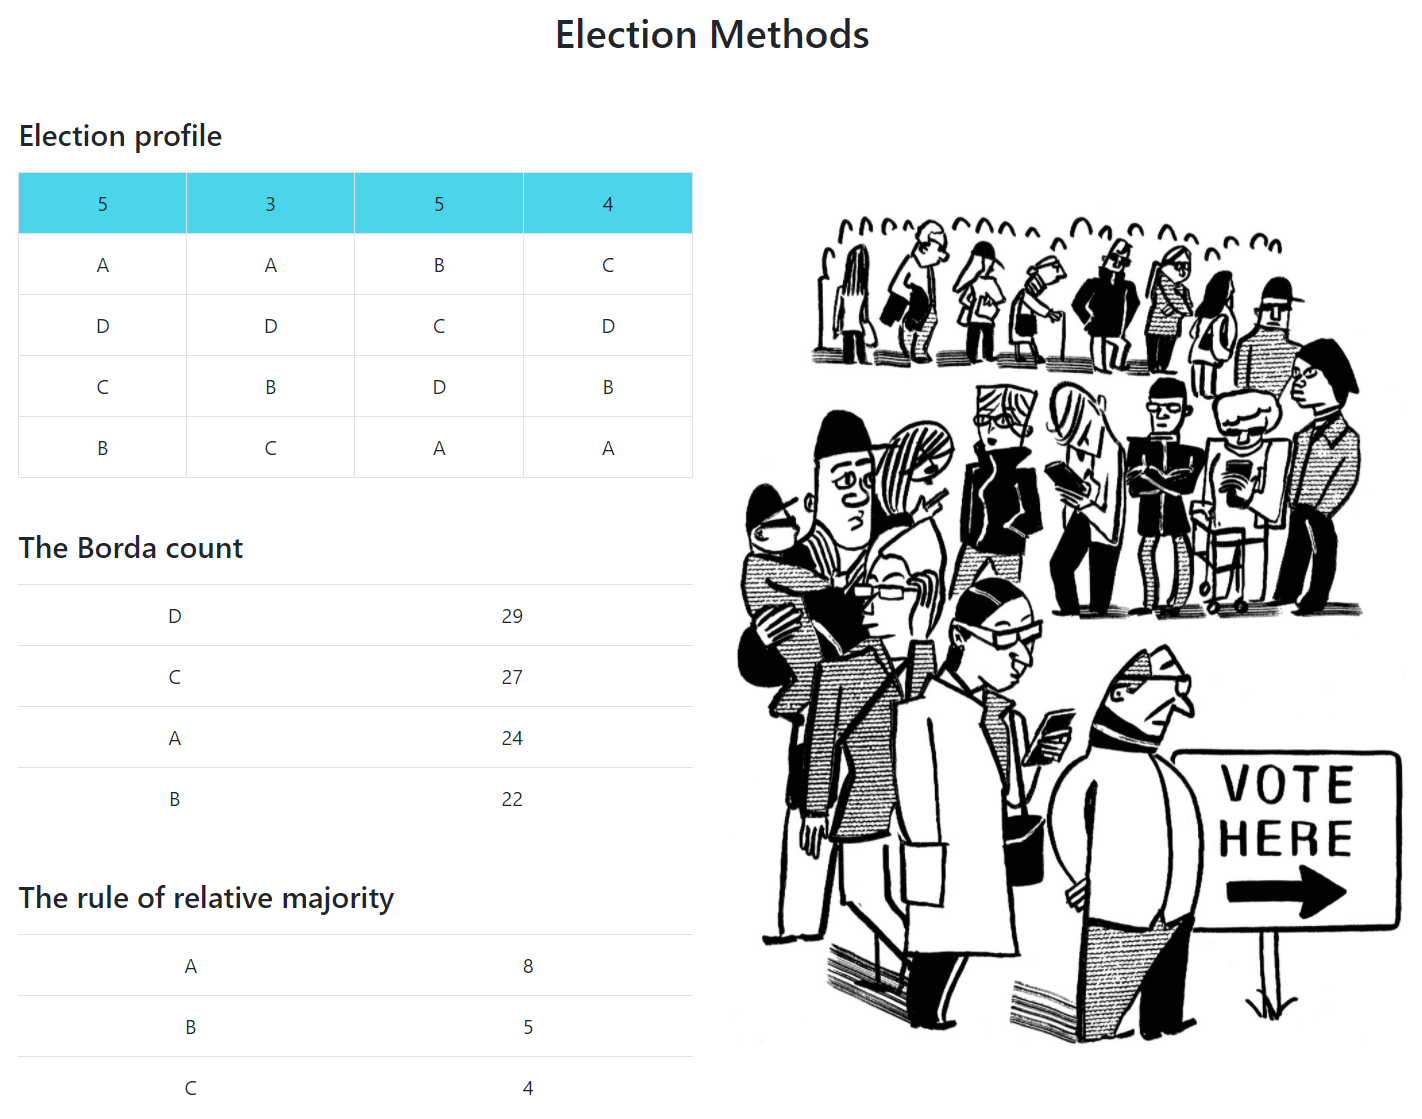
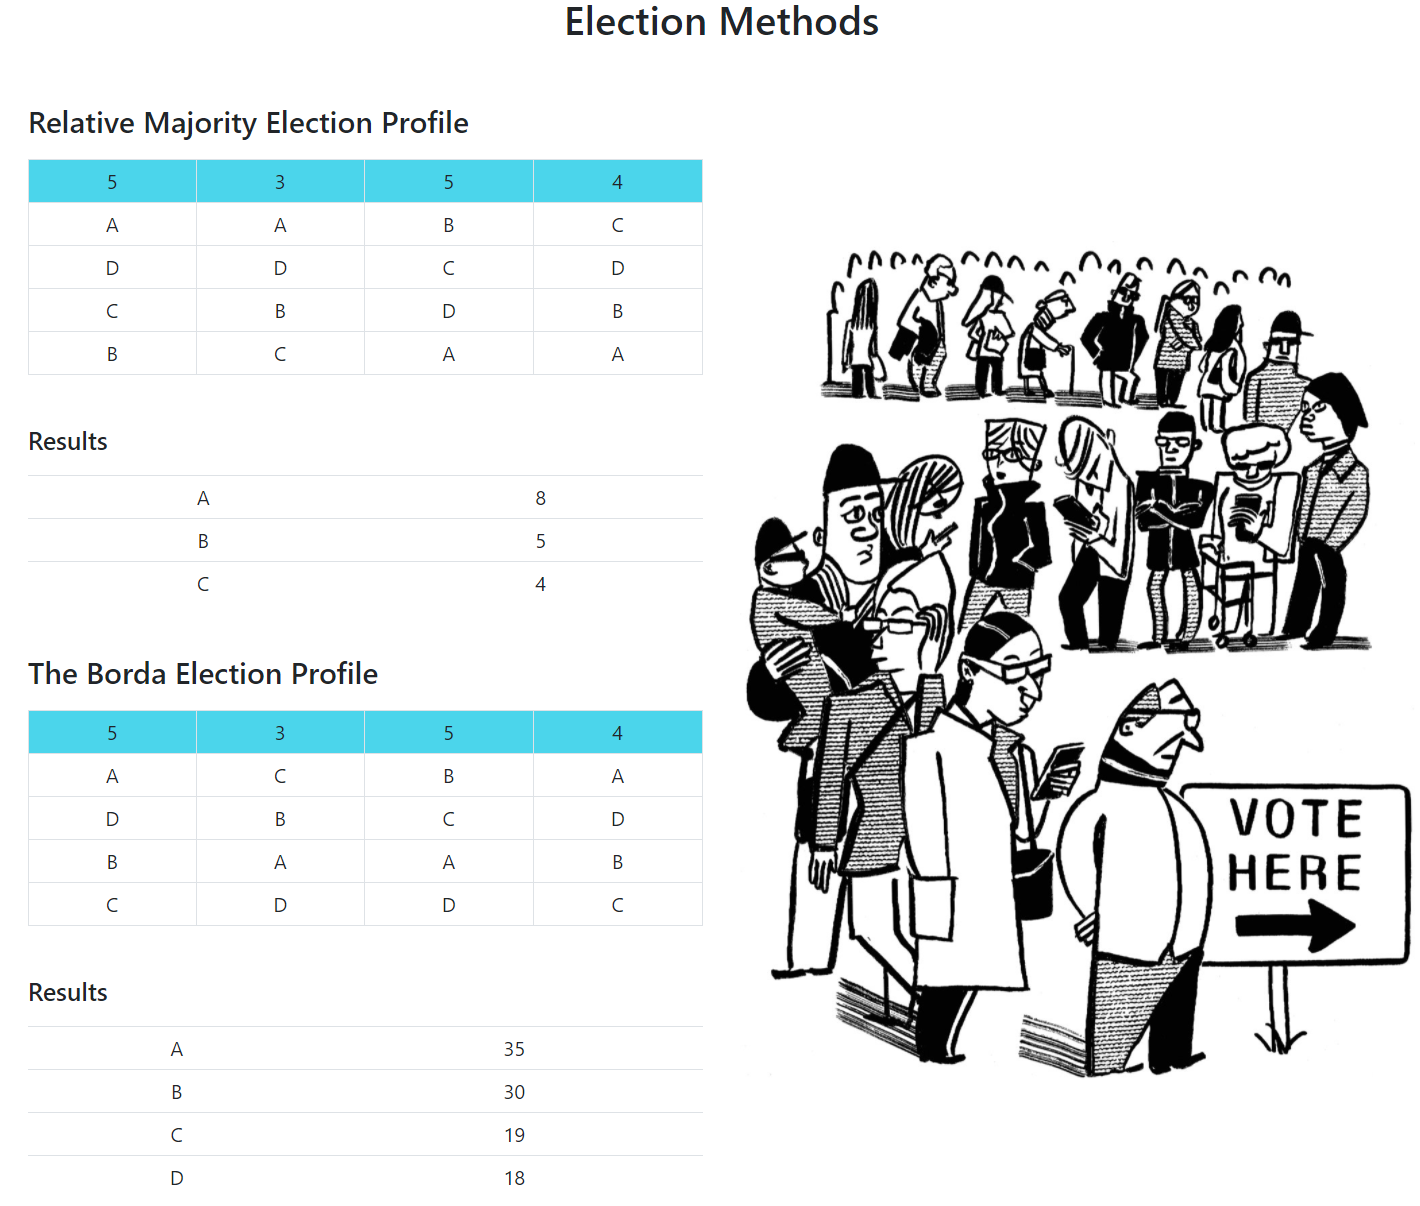
Borda method fix

diff --git a/Voting.UI/src/app/app.component.ts b/Voting.UI/src/app/app.component.ts
@@ -10,40 +10,43 @@ import { VotingHttpService } from './services/voting-http.service';
 })
 export class AppComponent implements OnInit {
 
-  public votingProfileTable: string[][] = [];
+  public majorityProfileTable: string[][] = [];
+  public bordaProfileTable: string[][] = [];
   public bordaRuleTable: string[][] = [];
   public relativeMajorityTable: string[][] = [];
-  private _votingProfile: IVotingProfile;
 
   constructor(private _votingService: VotingHttpService) { }
 
   public ngOnInit() {
-    this._votingService.getVotingProfile().subscribe(p => {
-      this._votingProfile = p;
-      this._fillVotingProfileTable();
+    this._votingService.getRelativeMajorityVotingProfile().subscribe(p => {
+      this.majorityProfileTable = this._fillVotingProfileTable(p);
+    });
+    this._votingService.getBordaRuleVotingProfile().subscribe(p => {
+      this.bordaProfileTable = this._fillVotingProfileTable(p);
     });
     this._votingService.getBordaRule().subscribe(p => {
-      this._fillBordaRuleTable(p);
+      this._fillBordaRuleResults(p);
     });
     this._votingService.getRelativeMajority().subscribe(p => {
-      this._fillgetRelativeMajorityTable(p);
+      this._fillRelativeMajorityResults(p);
     });
   }
 
-  private _fillVotingProfileTable(): void {
-    for (let i = 0; i < this._votingProfile.groupVotingProfiles.length; i++) {
-      this.votingProfileTable[i] = [];
-      const candidates = this._votingProfile.groupVotingProfiles[i].candidates;
-      this.votingProfileTable[i][0] = this._votingProfile.groupVotingProfiles[i].numberOfVotes.toString();
+  private _fillVotingProfileTable(votingProfile: IVotingProfile): string[][] {
+    const majorityProfileTable: string[][] = [];
+    for (let i = 0; i < votingProfile.groupVotingProfiles.length; i++) {
+      majorityProfileTable[i] = [];
+      const candidates = votingProfile.groupVotingProfiles[i].candidates;
+      majorityProfileTable[i][0] = votingProfile.groupVotingProfiles[i].numberOfVotes.toString();
       for (let j = 1; j < candidates.length + 1; j++) {
-        this.votingProfileTable[i][j] = candidates[j - 1].name;
+        majorityProfileTable[i][j] = candidates[j - 1].name;
       }
     }
 
-    this.votingProfileTable = this.votingProfileTable[0].map((_, colIndex) => this.votingProfileTable.map(row => row[colIndex]));
+    return majorityProfileTable[0].map((_, colIndex) => majorityProfileTable.map(row => row[colIndex]));
   }
 
-  private _fillBordaRuleTable(scores: IVotingScore[]): void {
+  private _fillBordaRuleResults(scores: IVotingScore[]): void {
     for (let i = 0; i < scores.length; i++) {
       this.bordaRuleTable[i] = [];
       this.bordaRuleTable[i][0] = scores[i].candidateName;
@@ -51,7 +54,7 @@ export class AppComponent implements OnInit {
     }
   }
 
-  private _fillgetRelativeMajorityTable(scores: IVotingScore[]): void {
+  private _fillRelativeMajorityResults(scores: IVotingScore[]): void {
     for (let i = 0; i < scores.length; i++) {
       this.relativeMajorityTable[i] = [];
       this.relativeMajorityTable[i][0] = scores[i].candidateName;

diff --git a/Voting.UI/src/app/app.component.html b/Voting.UI/src/app/app.component.html
@@ -3,10 +3,10 @@
 <div class="container">
   <div class="row">
     <div class="col-lg-6">
-      <h4 class="mb-3">Election profile</h4>
+      <h4 class="mb-3">Relative Majority Election Profile</h4>
       <section>
-        <table class="table table-bordered">
-          <tr *ngFor="let row of votingProfileTable; let i = index;">
+        <table class="table table-bordered table-sm">
+          <tr *ngFor="let row of majorityProfileTable; let i = index;">
             <td class="field text-center" *ngFor="let field of row" [ngClass]="i == 0 ? 'bg-info' : ''">
               {{field}}
             </td>
@@ -14,10 +14,10 @@
         </table>
       </section>
       <br />
-      <h4 class="mb-3">The Borda count</h4>
+      <h5 class="mb-3">Results</h5>
       <section>
-        <table class="table table-striped">
-          <tr *ngFor="let row of bordaRuleTable;">
+        <table class="table table-striped table-sm">
+          <tr *ngFor="let row of relativeMajorityTable;">
             <td class="field text-center" *ngFor="let field of row">
               {{field}}
             </td>
@@ -25,10 +25,21 @@
         </table>
       </section>
       <br />
-      <h4 class="mb-3">The rule of relative majority</h4>
+      <h4 class="mb-3">The Borda Election Profile</h4>
       <section>
-        <table class="table table-striped">
-          <tr *ngFor="let row of relativeMajorityTable;">
+        <table class="table table-bordered table-sm">
+          <tr *ngFor="let row of bordaProfileTable; let i = index;">
+            <td class="field text-center" *ngFor="let field of row" [ngClass]="i == 0 ? 'bg-info' : ''">
+              {{field}}
+            </td>
+          </tr>
+        </table>
+      </section>
+      <br />
+      <h5 class="mb-3">Results</h5>
+      <section>
+        <table class="table table-striped table-sm">
+          <tr *ngFor="let row of bordaRuleTable;">
             <td class="field text-center" *ngFor="let field of row">
               {{field}}
             </td>

diff --git a/Voting.UI/src/app/services/voting-http.service.ts b/Voting.UI/src/app/services/voting-http.service.ts
@@ -10,8 +10,12 @@ export class VotingHttpService {
 
     constructor(private _http: HttpClient) {}
 
-    public getVotingProfile(): Observable<IVotingProfile> {
-        return this._http.get<IVotingProfile>(`${AppSettings.apiHost}/voting`);
+    public getRelativeMajorityVotingProfile(): Observable<IVotingProfile> {
+        return this._http.get<IVotingProfile>(`${AppSettings.apiHost}/voting/profile/relative-majority`);
+    }
+
+    public getBordaRuleVotingProfile(): Observable<IVotingProfile> {
+        return this._http.get<IVotingProfile>(`${AppSettings.apiHost}/voting/profile/borda-rule`);
     }
 
     public getBordaRule(): Observable<IVotingScore[]> {

diff --git a/Voting.DAL/Migrations/20201122091656_AddedBordaScores.cs b/Voting.DAL/Migrations/20201122091656_AddedBordaScores.cs
@@ -1,0 +1,53 @@
+using Microsoft.EntityFrameworkCore.Migrations;
+
+namespace Voting.DAL.Migrations
+{
+    public partial class AddedBordaScores : Migration
+    {
+        protected override void Up(MigrationBuilder migrationBuilder)
+        {
+            migrationBuilder.CreateTable(
+                name: "BordaScores",
+                columns: table => new
+                {
+                    Id = table.Column<int>(type: "int", nullable: false)
+                        .Annotation("SqlServer:Identity", "1, 1"),
+                    CandidateId = table.Column<int>(type: "int", nullable: false),
+                    VoterId = table.Column<int>(type: "int", nullable: false),
+                    Score = table.Column<int>(type: "int", nullable: false)
+                },
+                constraints: table =>
+                {
+                    table.PrimaryKey("PK_BordaScores", x => x.Id);
+                    table.ForeignKey(
+                        name: "FK_BordaScores_Candidates_CandidateId",
+                        column: x => x.CandidateId,
+                        principalTable: "Candidates",
+                        principalColumn: "Id",
+                        onDelete: ReferentialAction.Cascade);
+                    table.ForeignKey(
+                        name: "FK_BordaScores_Voters_VoterId",
+                        column: x => x.VoterId,
+                        principalTable: "Voters",
+                        principalColumn: "Id",
+                        onDelete: ReferentialAction.Cascade);
+                });
+
+            migrationBuilder.CreateIndex(
+                name: "IX_BordaScores_CandidateId",
+                table: "BordaScores",
+                column: "CandidateId");
+
+            migrationBuilder.CreateIndex(
+                name: "IX_BordaScores_VoterId",
+                table: "BordaScores",
+                column: "VoterId");
+        }
+
+        protected override void Down(MigrationBuilder migrationBuilder)
+        {
+            migrationBuilder.DropTable(
+                name: "BordaScores");
+        }
+    }
+}

diff --git a/Voting.DAL/Repositories/VotingRepository.cs b/Voting.DAL/Repositories/VotingRepository.cs
@@ -10,7 +10,7 @@ namespace Voting.DAL.Repositories
         private readonly VotingDbContext _context;
         public VotingRepository(VotingDbContext context) => _context = context;
 
-        public VotingProfile GetVotingProfile()
+        public VotingProfile GetRelativeMajorityVotingProfile()
         {
             var groupedVoters = _context.Voters
                 .AsNoTracking()
@@ -37,6 +37,40 @@ namespace Voting.DAL.Repositories
                 profile.GroupVotingProfiles.Add(new GroupVotingProfile
                 {
                     NumberOfVotes = g.Count(),
+                    Candidates = orderedCandidatesIds.Select(id => allCandidates.FirstOrDefault(c => c.Id == id)).ToList()
+                });
+            });
+
+            return profile;
+        }
+
+        public VotingProfile GetBordaRuleVotingProfile()
+        {
+            var groupedVoters = _context.Voters
+                .AsNoTracking()
+                .Include(v => v.BordaScore)
+                .ThenInclude(v => v.Candidate)
+                .AsEnumerable()
+                .GroupBy(v => v.Group)
+                .ToList();
+
+            var allCandidates = _context.Candidates.AsNoTracking().ToList();
+
+            VotingProfile profile = new VotingProfile();
+            groupedVoters.ForEach(g =>
+            {
+                List<int> orderedCandidatesIds = g.GroupBy(g => g.BordaScore.CandidateId)
+                .OrderByDescending(c => c.Sum(s => s.BordaScore.Score))
+                .Select(c => c.Key)
+                .ToList();
+
+                IEnumerable<int> zeroVotesCandidates = allCandidates.Select(c => c.Id).Except(orderedCandidatesIds);
+
+                orderedCandidatesIds.AddRange(zeroVotesCandidates);
+
+                profile.GroupVotingProfiles.Add(new GroupVotingProfile
+                {
+                    NumberOfVotes = g.Count() / allCandidates.Count,
                     Candidates = orderedCandidatesIds.Select(id => allCandidates.FirstOrDefault(c => c.Id == id)).ToList()
                 });
             });

diff --git a/Voting/Controllers/VotingController.cs b/Voting/Controllers/VotingController.cs
@@ -15,13 +15,16 @@ namespace Voting.Controllers
 
         public VotingController(IVotingRepository repo) => _repo = repo;
 
-        [HttpGet]
-        public VotingProfile Get() => _repo.GetVotingProfile();
+        [HttpGet("profile/relative-majority")]
+        public VotingProfile GetRelativeMajorityVotingProfile() => _repo.GetRelativeMajorityVotingProfile();
+
+        [HttpGet("profile/borda-rule")]
+        public VotingProfile GetBordaRuleVotingProfile() => _repo.GetBordaRuleVotingProfile();
 
         [HttpGet("relative-majority")]
         public IEnumerable<VotingScore> RelativeMajority()
         {
-            VotingProfile votingProfile = _repo.GetVotingProfile();
+            VotingProfile votingProfile = _repo.GetRelativeMajorityVotingProfile();
 
             Dictionary<string, int> votes = new Dictionary<string, int>();
             votingProfile.GroupVotingProfiles.ForEach(g =>
@@ -44,7 +47,7 @@ namespace Voting.Controllers
         [HttpGet("borda-rule")]
         public IEnumerable<VotingScore> BordaRule()
         {
-            VotingProfile votingProfile = _repo.GetVotingProfile();
+            VotingProfile votingProfile = _repo.GetBordaRuleVotingProfile();
 
             Dictionary<string, int> votes = new Dictionary<string, int>();
             votingProfile.GroupVotingProfiles.ForEach(g =>

diff --git a/Voting.DAL/Migrations/20201122091656_AddedBordaScores.Designer.cs b/Voting.DAL/Migrations/20201122091656_AddedBordaScores.Designer.cs
@@ -2,15 +2,17 @@
 using Microsoft.EntityFrameworkCore;
 using Microsoft.EntityFrameworkCore.Infrastructure;
 using Microsoft.EntityFrameworkCore.Metadata;
+using Microsoft.EntityFrameworkCore.Migrations;
 using Microsoft.EntityFrameworkCore.Storage.ValueConversion;
 using Voting.DAL;
 
 namespace Voting.DAL.Migrations
 {
     [DbContext(typeof(VotingDbContext))]
-    partial class VotingDbContextModelSnapshot : ModelSnapshot
+    [Migration("20201122091656_AddedBordaScores")]
+    partial class AddedBordaScores
     {
-        protected override void BuildModel(ModelBuilder modelBuilder)
+        protected override void BuildTargetModel(ModelBuilder modelBuilder)
         {
 #pragma warning disable 612, 618
             modelBuilder

diff --git a/Voting.DAL/Entities/BordaScore.cs b/Voting.DAL/Entities/BordaScore.cs
@@ -1,0 +1,13 @@
+namespace Voting.DAL.Entities
+{
+    public class BordaScore
+    {
+        public int Id { get; set; }
+        public int CandidateId { get; set; }
+        public int VoterId { get; set; }
+        public int Score { get; set; }
+
+        public Candidate Candidate { get; set; }
+        public Voter Voter { get; set; }
+    }
+}

diff --git a/Voting.DAL/VotingDbContext.cs b/Voting.DAL/VotingDbContext.cs
@@ -12,5 +12,6 @@ namespace Voting.DAL
         public DbSet<Candidate> Candidates { get; set; }
         public DbSet<Voter> Voters { get; set; }
         public DbSet<Vote> Votes { get; set; }
+        public DbSet<BordaScore> BordaScores { get; set; }
     }
 }

diff --git a/Voting.DAL/Repositories/IVotingRepository.cs b/Voting.DAL/Repositories/IVotingRepository.cs
@@ -4,6 +4,7 @@ namespace Voting.DAL.Repositories
 {
     public interface IVotingRepository
     {
-        VotingProfile GetVotingProfile();
+        VotingProfile GetRelativeMajorityVotingProfile();
+        VotingProfile GetBordaRuleVotingProfile();
     }
 }

diff --git a/Voting.DAL/Entities/Voter.cs b/Voting.DAL/Entities/Voter.cs
@@ -7,5 +7,6 @@
         public int Group { get; set; }
 
         public Vote Vote { get; set; }
+        public BordaScore BordaScore { get; set; }
     }
 }
